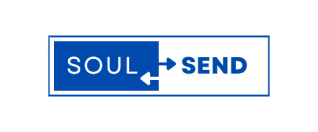
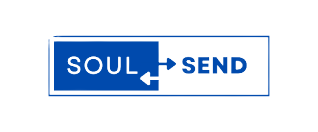
refac: update UI

Changed region(s): [[0.1415, 0.2424, 0.8491, 0.7576]]

diff --git a/src/components/Navbar/Navbar.js b/src/components/Navbar/Navbar.js
@@ -16,7 +16,7 @@ export default function Navbar(props) {
 
   return (
     <div className={styles.navbar}>
-      <div>
+      <div className={styles.logobar}>
         <img className={styles.image1Icon} alt="logo" src={logo} />
       </div>
       <NavButtons active={props.active} notifAmount={props.notifAmount} />
@@ -24,7 +24,6 @@ export default function Navbar(props) {
         {!ctx.isConnected && <ConnectWallet clickHandler={ctx.connectWallet} />}
 
         {ctx.isConnected && ctx.account && <AddressBar address={ctx.account} />}
-        <ConnectWallet />
       </div>
     </div>
   );

diff --git a/src/components/Navbar/Navbar.module.css b/src/components/Navbar/Navbar.module.css
@@ -5,7 +5,16 @@
   padding: 0.5rem 3rem;
 }
 .image1Icon {
-  width: 6rem;
-  height: 6rem;
-  object-fit: cover;
+  width: 100%;
+  height: 100%;
+  object-fit: contain;
+}
+
+.logobar {
+  border: none;
+  background-color: #fff;
+  border-radius: 10px;
+  box-sizing: border-box;
+  width: 7rem;
+  height: 2.5rem;
 }

diff --git a/src/components/Navbar/NavButtons.module.css b/src/components/Navbar/NavButtons.module.css
@@ -34,7 +34,7 @@
   top: 26.7px;
   left: calc(50% - 228.3px); */
   border-radius: 5px;
-  background-color: #294d52;
+  background-color: #004aad;
   border: 0.3px solid #fff;
   box-sizing: border-box;
   width: 456.6px;
